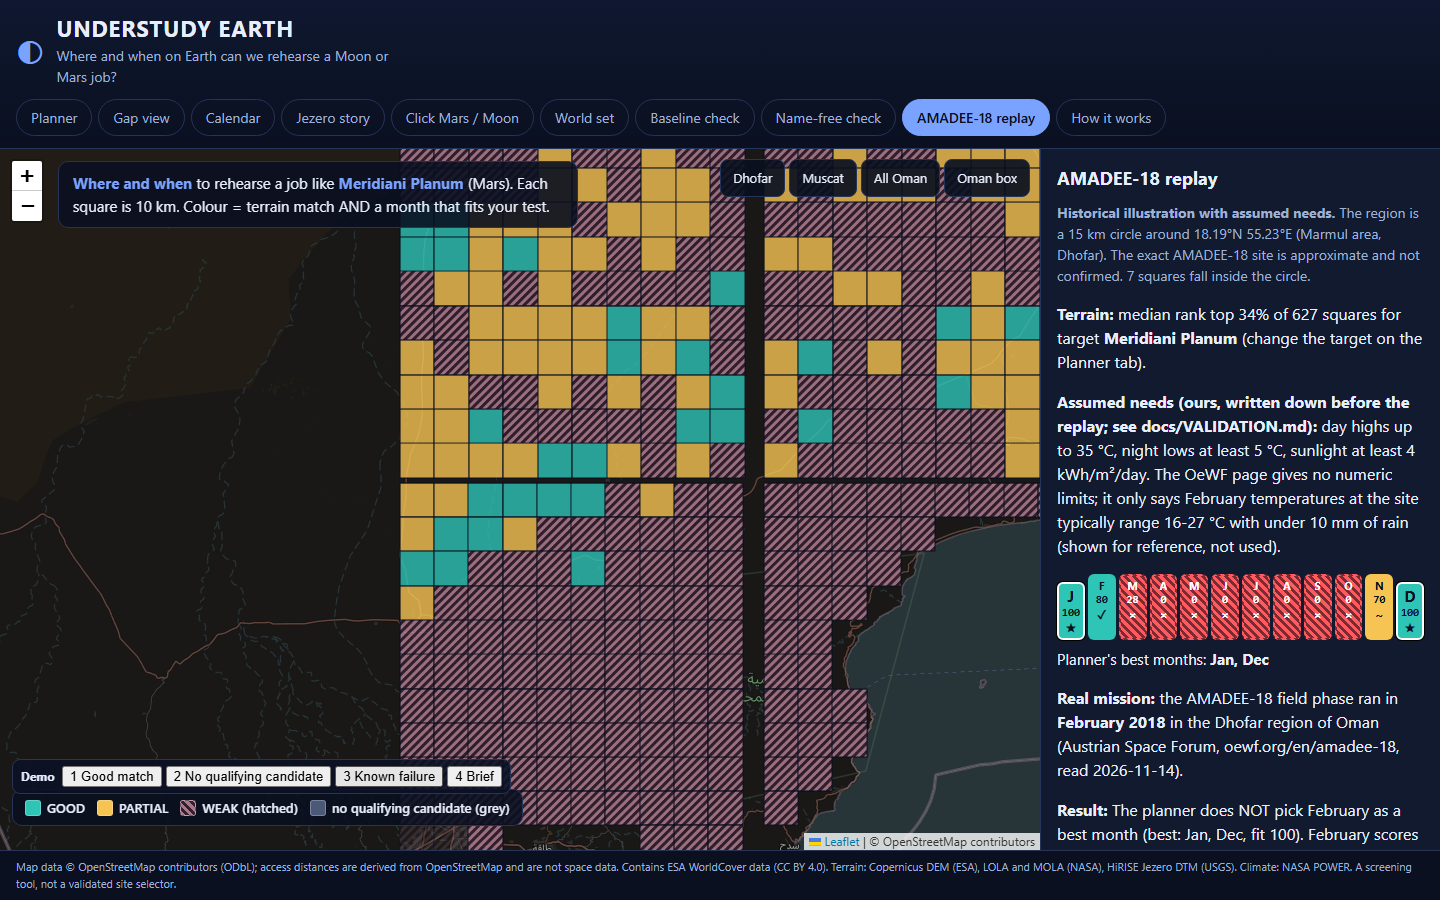
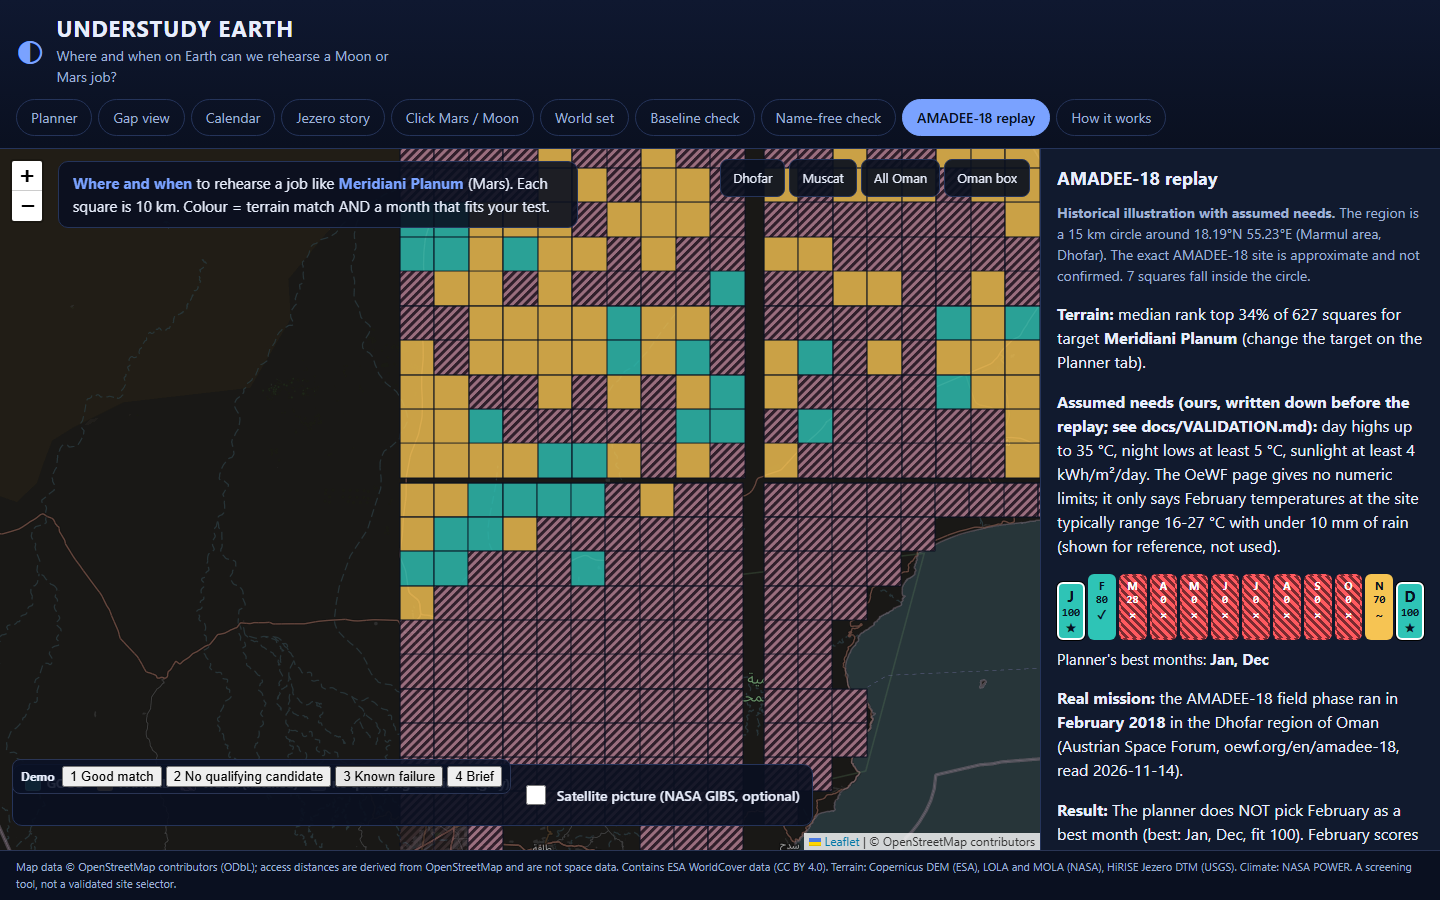
add optional NASA GIBS satellite picture layer on the map, off by default with OSM fallback

Changed region(s): [[0.0, 0.84, 0.5625, 0.9333]]

diff --git a/app/app.js b/app/app.js
@@ -52,9 +52,24 @@
     return st.mode === 'terrain' ? tt : (st.mode === 'needs' ? nt : N.worse(tt, nt));
   }
 
+  // NASA GIBS true-colour imagery, optional picture layer, off by default. No login, CORS open (checked 2026-11-15).
+  // Core map features never depend on this: it only ever ADDS a layer, and any load problem silently leaves the OSM base shown.
+  function addGibsLayer(map) {
+    var day = new Date(Date.now() - 2 * 86400000).toISOString().slice(0, 10); // most recent imagery lags by about a day
+    var gibs = L.tileLayer('https://gibs.earthdata.nasa.gov/wmts/epsg3857/best/MODIS_Terra_CorrectedReflectance_TrueColor/default/' + day + '/GoogleMapsCompatible_Level9/{z}/{y}/{x}.jpg',
+      { maxZoom: 9, attribution: 'NASA EOSDIS GIBS (MODIS Terra true colour)' });
+    var failed = false;
+    gibs.on('tileerror', function () { if (!failed) { failed = true; map.removeLayer(gibs); } });
+    return gibs;
+  }
   function initMap() {
     map = L.map('map', { zoomControl: true }).setView([20.3, 56.4], 6);
     L.tileLayer('https://tile.openstreetmap.org/{z}/{x}/{y}.png', { maxZoom: 12, className: 'dark-tiles', attribution: '&copy; OpenStreetMap contributors' }).addTo(map);
+    var gibsLayer = null;
+    var gt = document.getElementById('gibs_toggle');
+    if (gt) gt.addEventListener('change', function () {
+      if (gt.checked) { gibsLayer = addGibsLayer(map); gibsLayer.addTo(map); } else if (gibsLayer) { map.removeLayer(gibsLayer); gibsLayer = null; }
+    });
     var r = L.svg({ padding: 0.5 }); r.addTo(map);
     var ns = 'http://www.w3.org/2000/svg', defs = document.createElementNS(ns, 'defs');
     defs.innerHTML = '<pattern id="hatch" width="6" height="6" patternUnits="userSpaceOnUse" patternTransform="rotate(45)"><rect width="6" height="6" fill="#a8788a"/><rect width="3" height="6" fill="#33202e"/></pattern>';

diff --git a/app/index.html b/app/index.html
@@ -32,6 +32,7 @@
     <div id="map" role="application" aria-label="Map of Oman terrain windows coloured by fit for the chosen test"></div>
     <div class="legend" aria-label="Legend">
       <span><i class="sw match"></i>GOOD</span><span><i class="sw partial"></i>PARTIAL</span><span><i class="sw gap"></i>WEAK (hatched)</span><span><i class="sw none"></i>no qualifying candidate (grey)</span>
+      <label class="chk" style="margin-left:auto"><input type="checkbox" id="gibs_toggle"> Satellite picture (NASA GIBS, optional)</label>
     </div>
     <div class="demobar" id="demobar"><b>Demo</b> <button data-demo="good">1 Good match</button><button data-demo="none">2 No qualifying candidate</button><button data-demo="fail">3 Known failure</button><button data-demo="brief">4 Brief</button></div>
     <div id="loaderr" class="err" hidden></div>

diff --git a/docs/REFERENCES.md b/docs/REFERENCES.md
@@ -17,6 +17,8 @@
 - Ready-made test numbers (rover, instrument, walking, cold) and the fade margins are OUR ASSUMPTIONS, not sourced requirements.
 ## Background
 - AMADEE-18, Austrian Space Forum (OeWF), oewf.org/en/amadee-18: field simulation in the Dhofar region of Oman, February 2018. Exact site not confirmed; Marmul area (18.19 N, 55.23 E, Global Energy Monitor) used as approximate centre.
+- NASA EOSDIS GIBS (Global Imagery Browse Services), MODIS_Terra_CorrectedReflectance_TrueColor layer, WMTS REST tiles at gibs.earthdata.nasa.gov, no login, CORS open (checked 2026-11-15: HTTP 200, `Access-Control-Allow-Origin: *`). Optional satellite picture layer on the Planner map, off by default, with attribution "NASA EOSDIS GIBS (MODIS Terra true colour)"; a tile load error removes the layer and falls back to the OpenStreetMap base, which the app never depends on this service for.
+
 ## Libraries
 numpy, scipy, rasterio, pyproj, Playwright (testing), Leaflet 1.9.4; basemap tiles (c) OpenStreetMap contributors.
 ## Research notes (not used as data)
